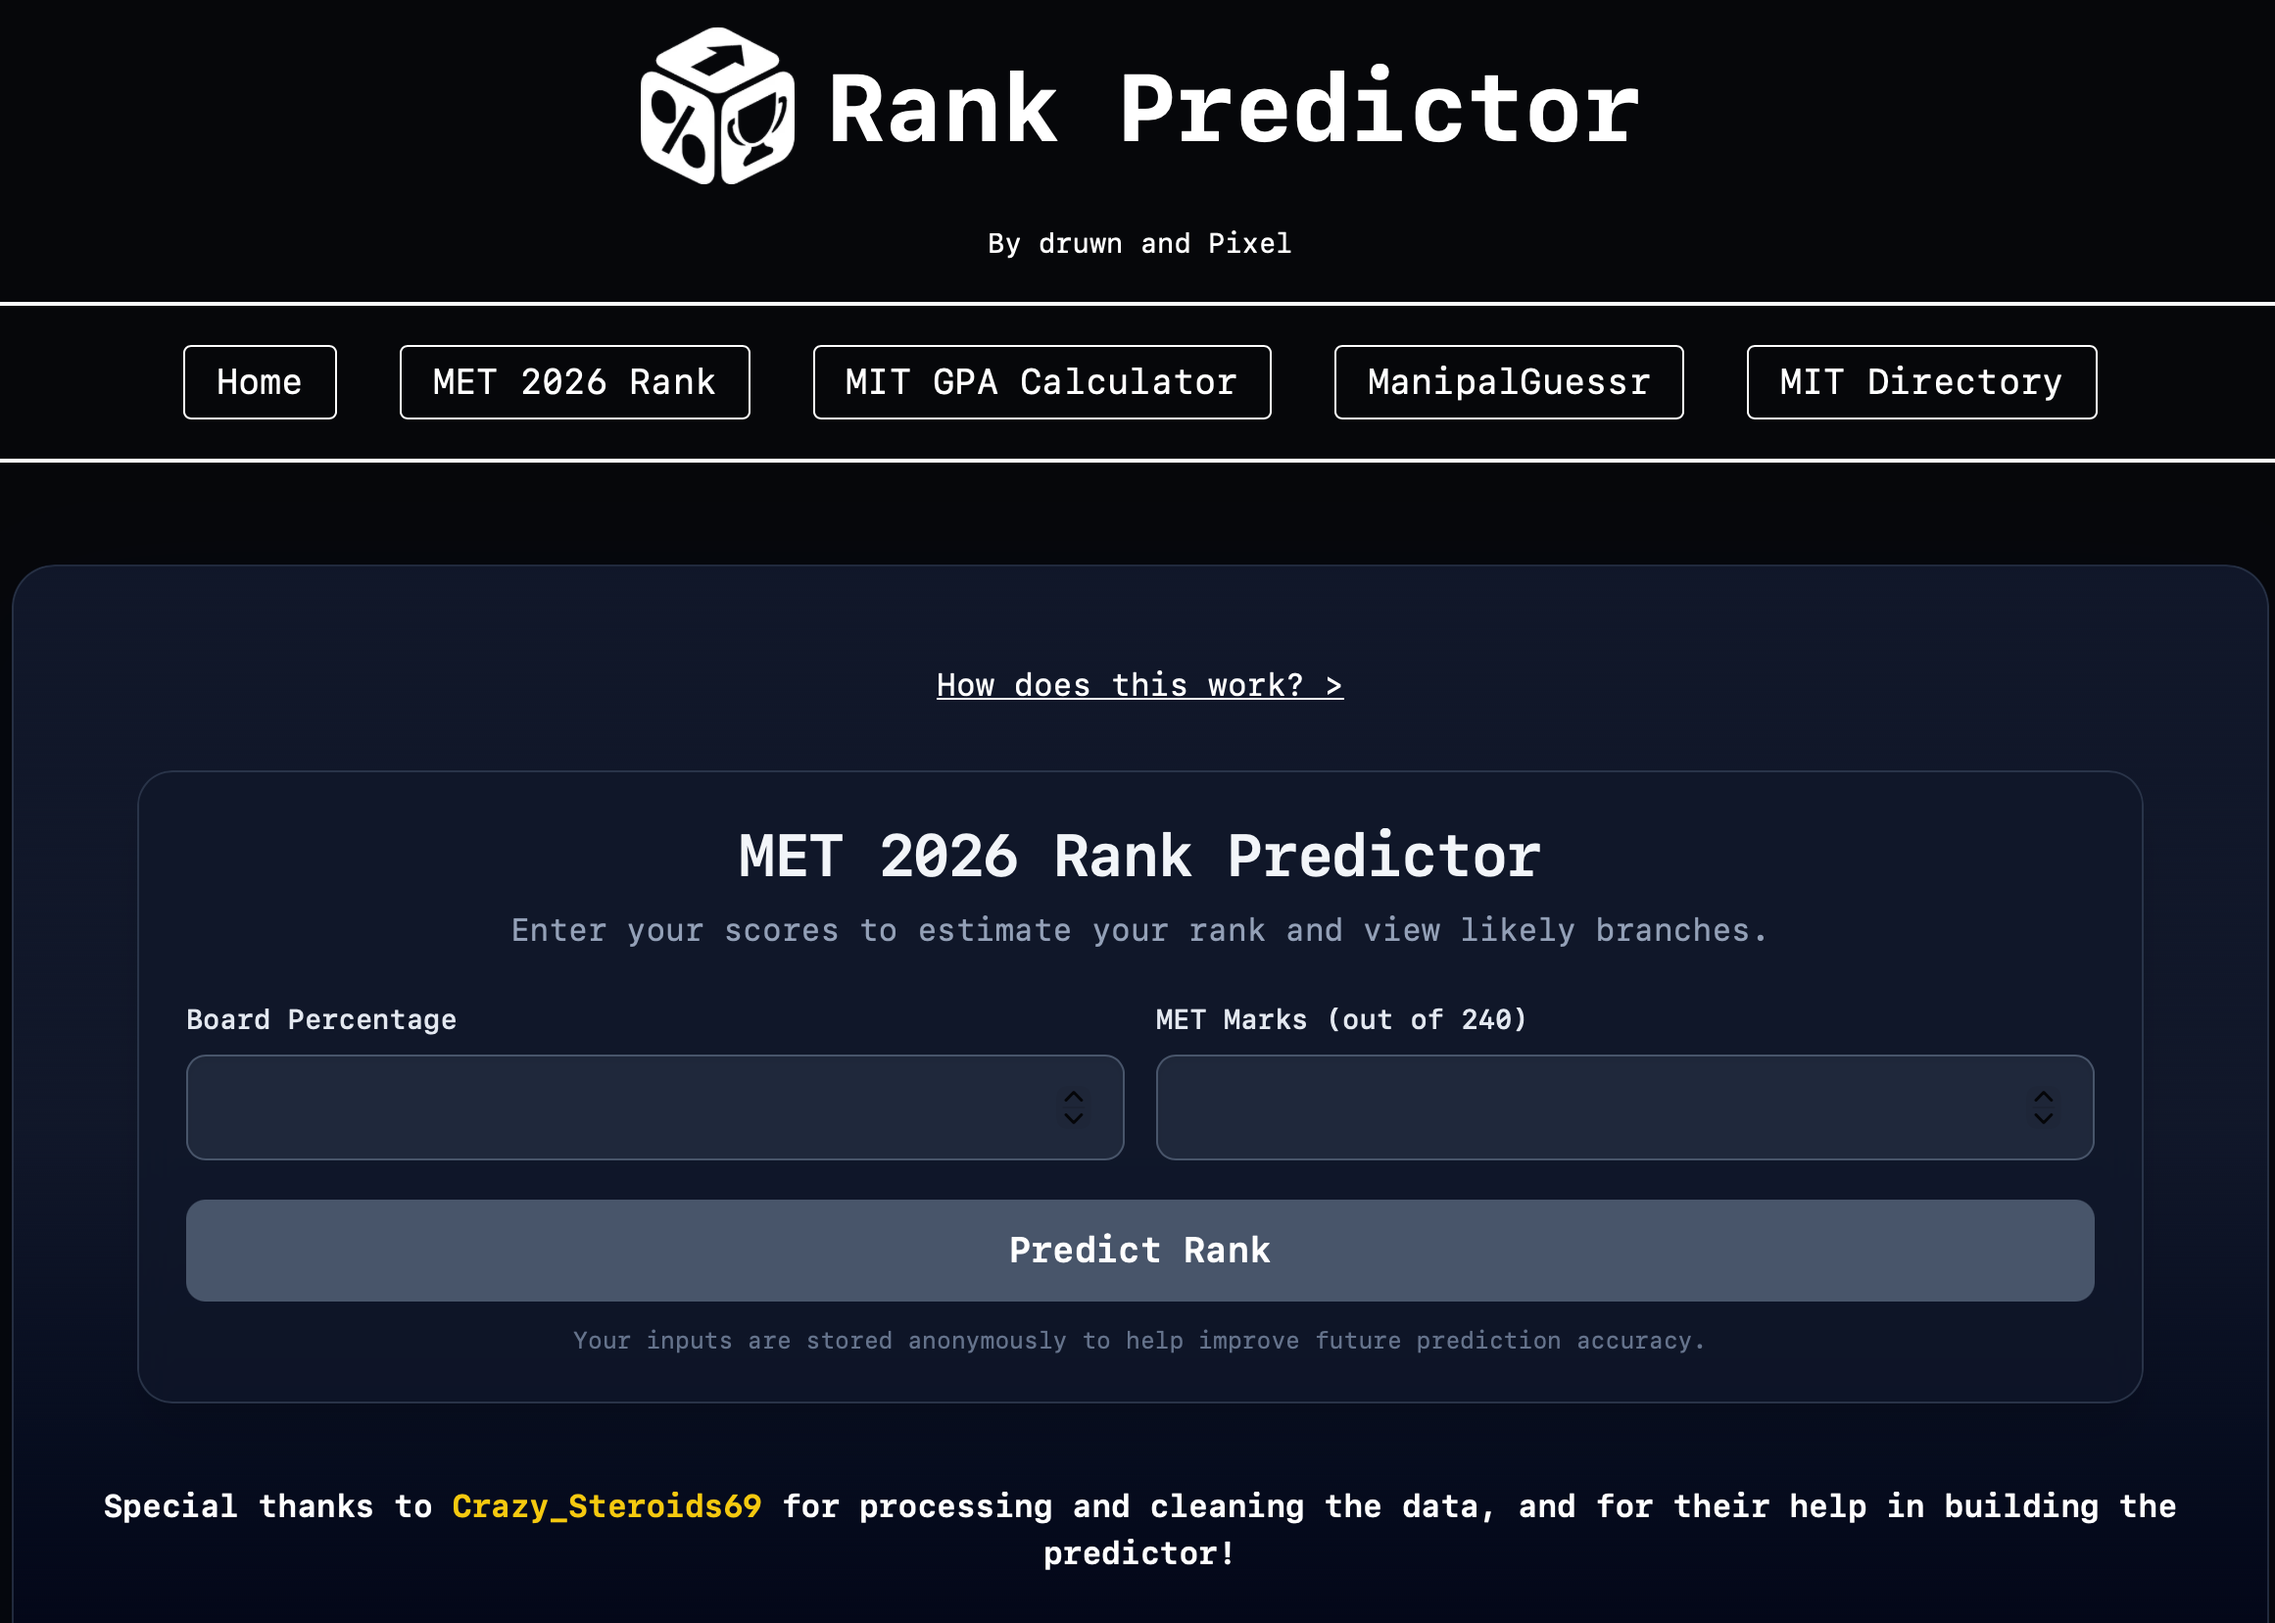
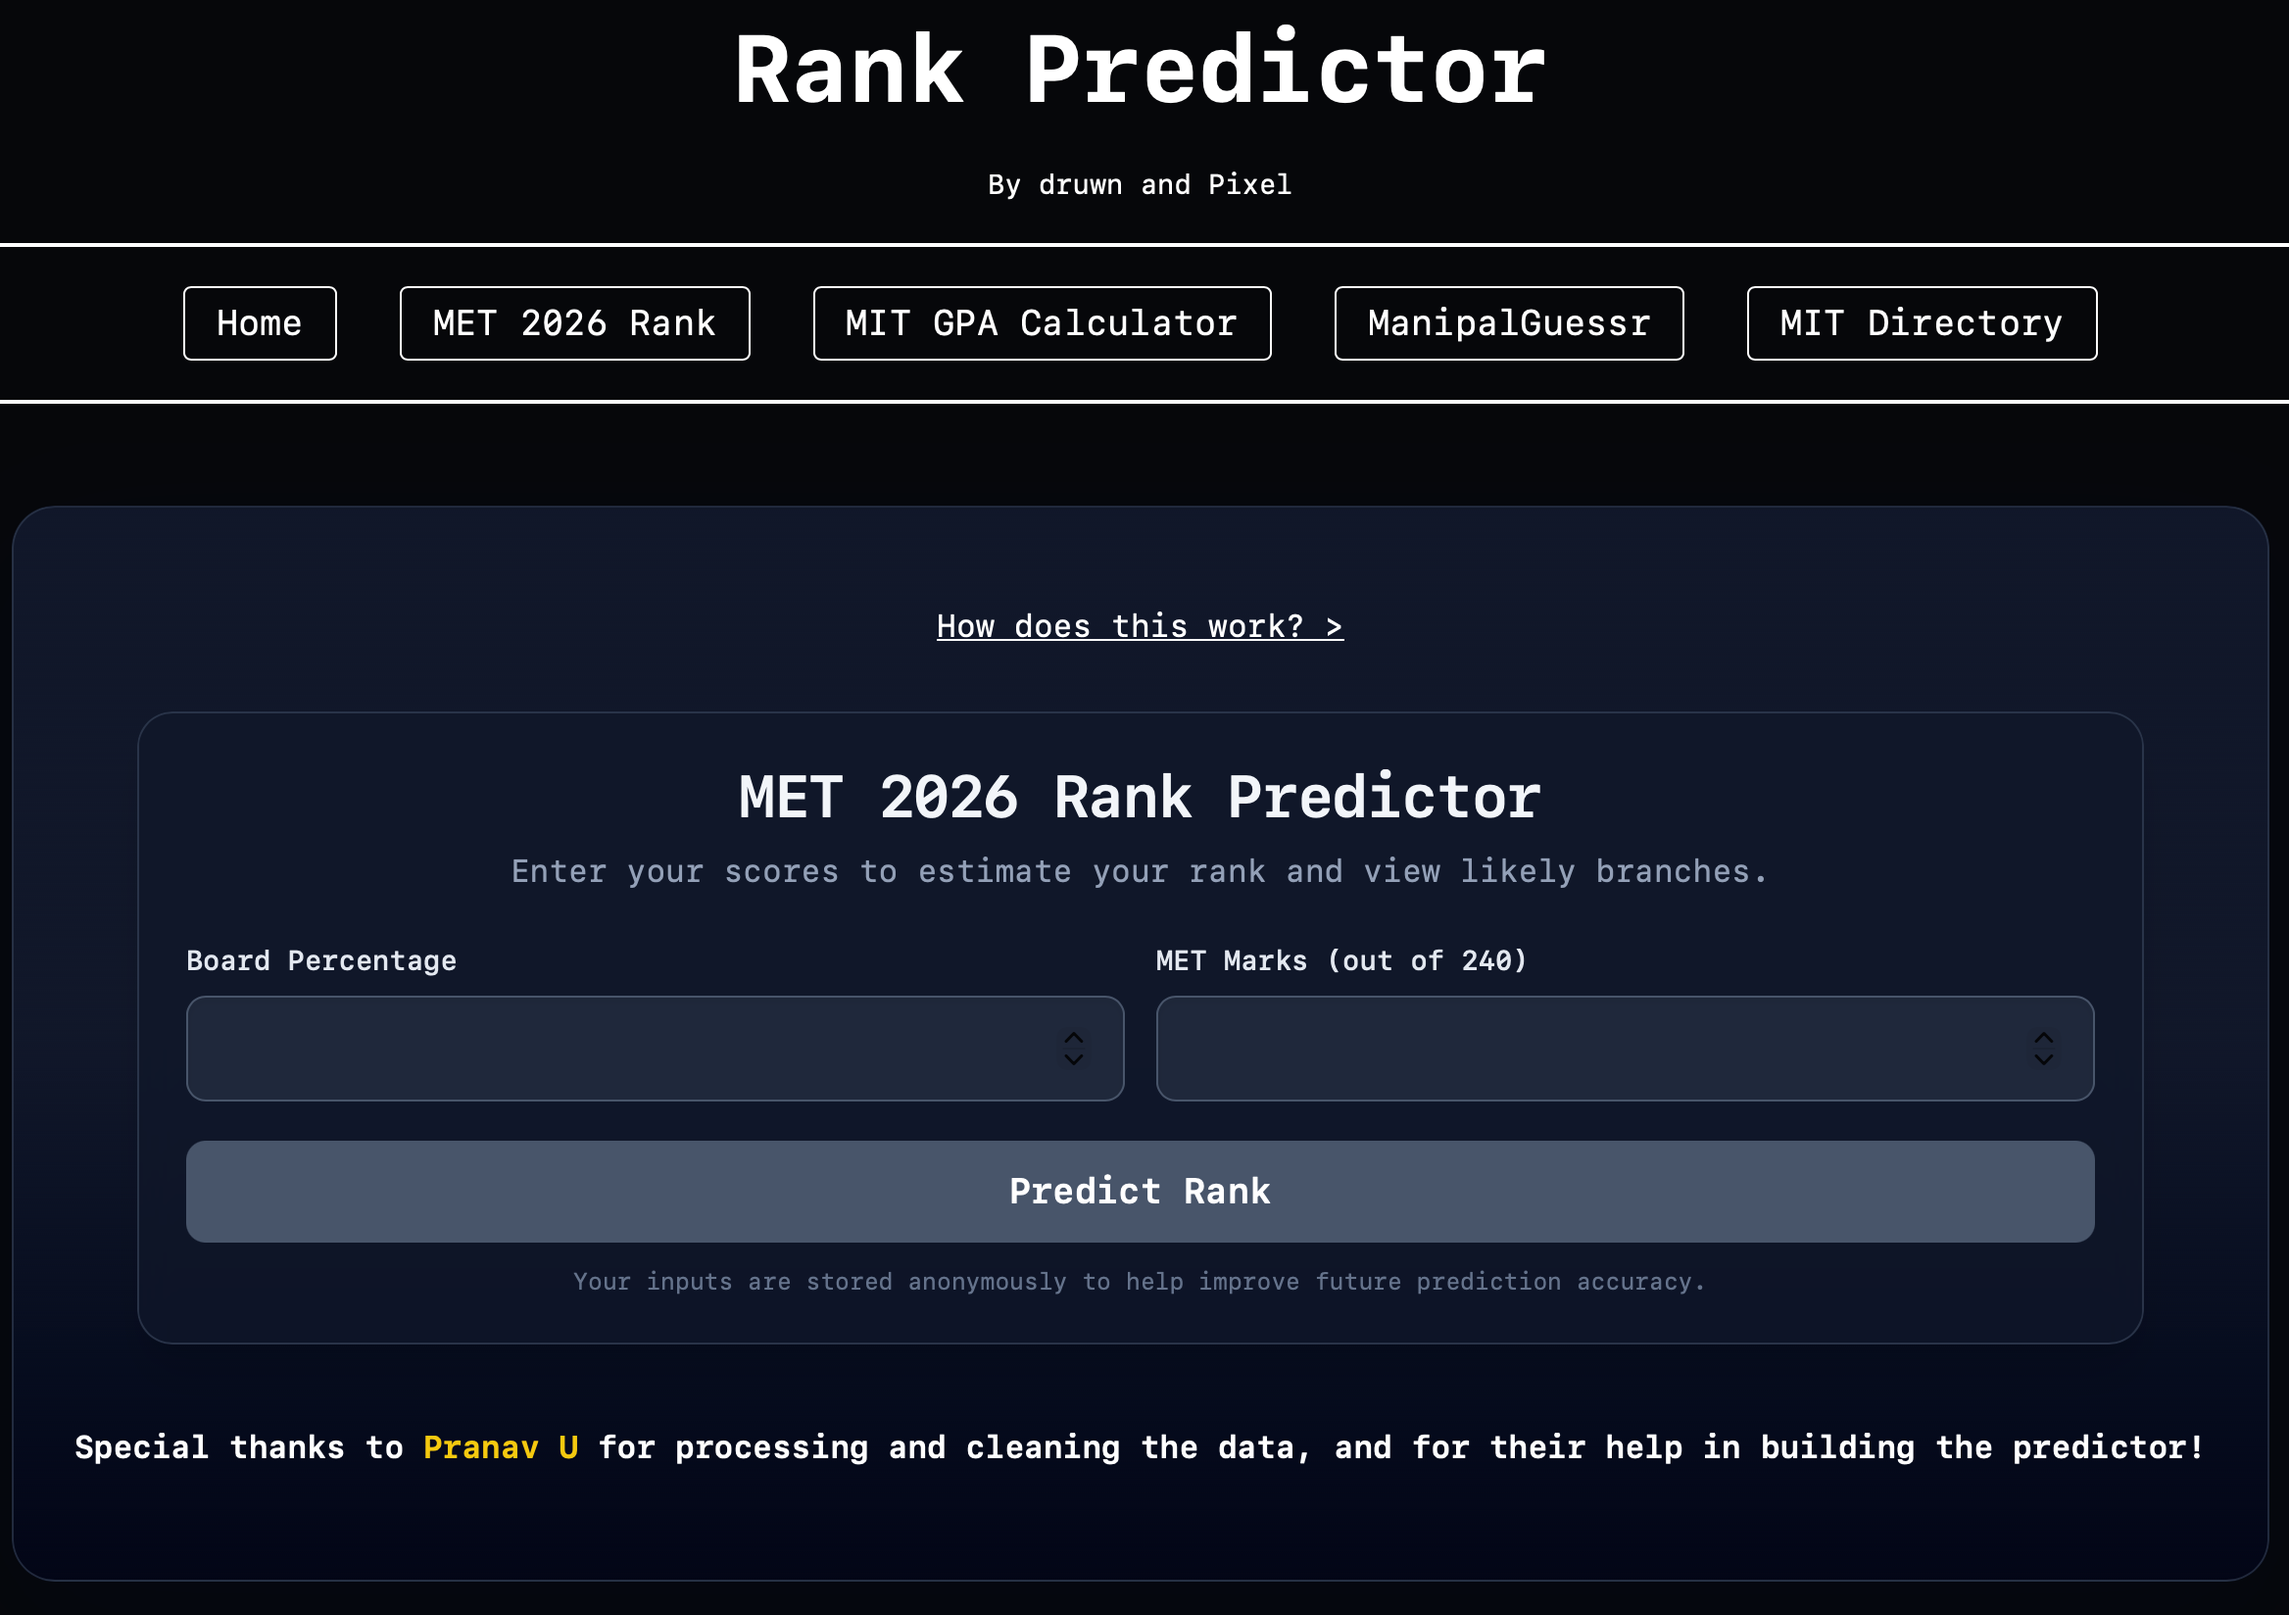
Fix link, Discord, name

diff --git a/components/Navbar.tsx b/components/Navbar.tsx
@@ -34,13 +34,13 @@ const NavLink = ({ href, label, isExternal }: NavLinkProps) => {
 const NavBar = () => {
   return (
     <div>
-      <header className="mb-5 mt-6 flex flex-col items-center justify-center gap-2 px-4 sm:flex-row sm:gap-4">
+      <header className="relative mb-5 mt-6 flex flex-col items-center justify-center gap-2 px-4 sm:gap-4">
         <Image
           src="/logo.png"
-          alt="Company Logo"
+          alt="RankPredictor Logo"
           width={80}
           height={80}
-          className="h-14 w-14 cursor-pointer object-contain sm:h-16 sm:w-16 md:h-20 md:w-20"
+          className="h-14 w-14 cursor-pointer object-contain sm:h-16 sm:w-16 md:absolute md:left-4 md:top-1/2 md:h-20 md:w-20 md:-translate-y-1/3 md:ml-4"
         />
         <h1 className="text-center text-3xl font-bold leading-tight sm:text-4xl md:text-5xl">
           Rank Predictor

diff --git a/app/page.tsx b/app/page.tsx
@@ -32,7 +32,7 @@ export const metadata: Metadata = {
 export default function Home() {
   return (
     <div>
-      <div className="max-w px-10 md:px-30 text-justify space-y-8">
+      <div className="max-w px-10 md:px-30 text-justify space-y-8 mb-18 mt-8">
         <section className="space-y-2">
           <h2 className="text-2xl font-bold">About</h2>
           <p className="text-gray-300">
@@ -91,7 +91,7 @@ export default function Home() {
             <a
               href="https://discord.gg/2mYN8aDPur"
               target="_blank"
-              className="text-white hover:text-yellow-500 transition-all"
+              className="text-yellow-500 hover:text-yellow-600 transition-all"
             >
               MIT Manipal & MET Discord
             </a>

diff --git a/app/met2026/Form.tsx b/app/met2026/Form.tsx
@@ -184,7 +184,7 @@ const Form = ({ sendBoards, sendMET }: FormProp) => {
         )}
       </div>
                 <p className="font-semibold text-s mt-10 mb-2 text-center text-white">
-                  Special thanks to <a href="www.pranavu.dev" className="text-yellow-400 hover:text-yellow-300 transition-all">Pranav U</a> for processing and cleaning the data, and for their help in building the predictor!
+                  Special thanks to <a href="https://pranavu.dev/" target="_blank" rel="noopener noreferrer" className="text-yellow-400 hover:text-yellow-300 transition-all">Pranav U</a> for processing and cleaning the data, and for their help in building the predictor!
                 </p>
     </div>
   );
